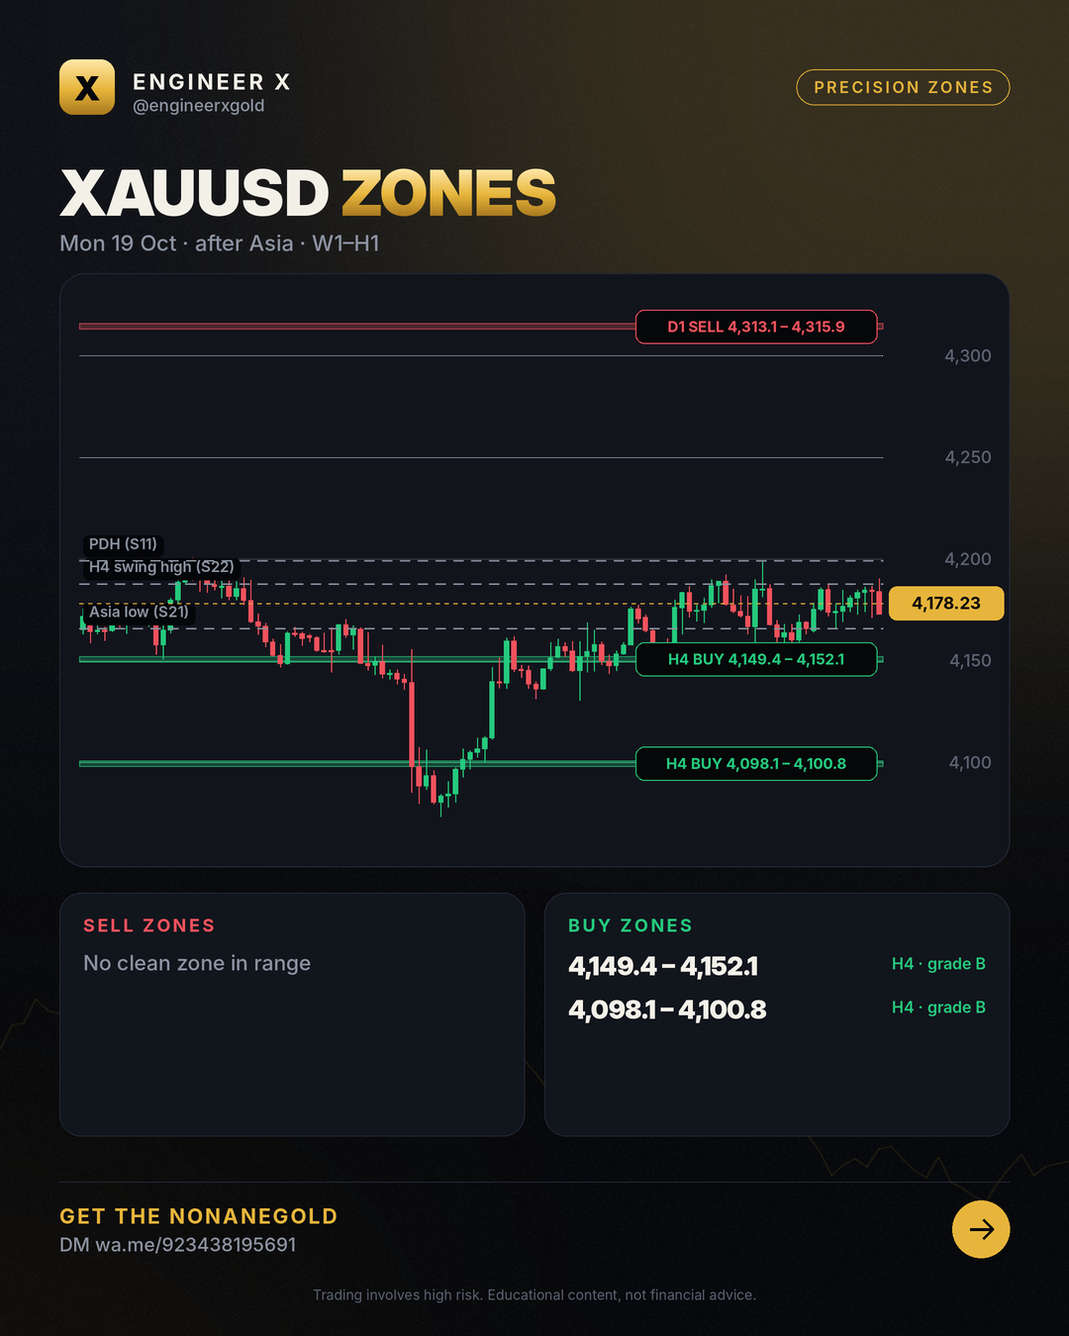
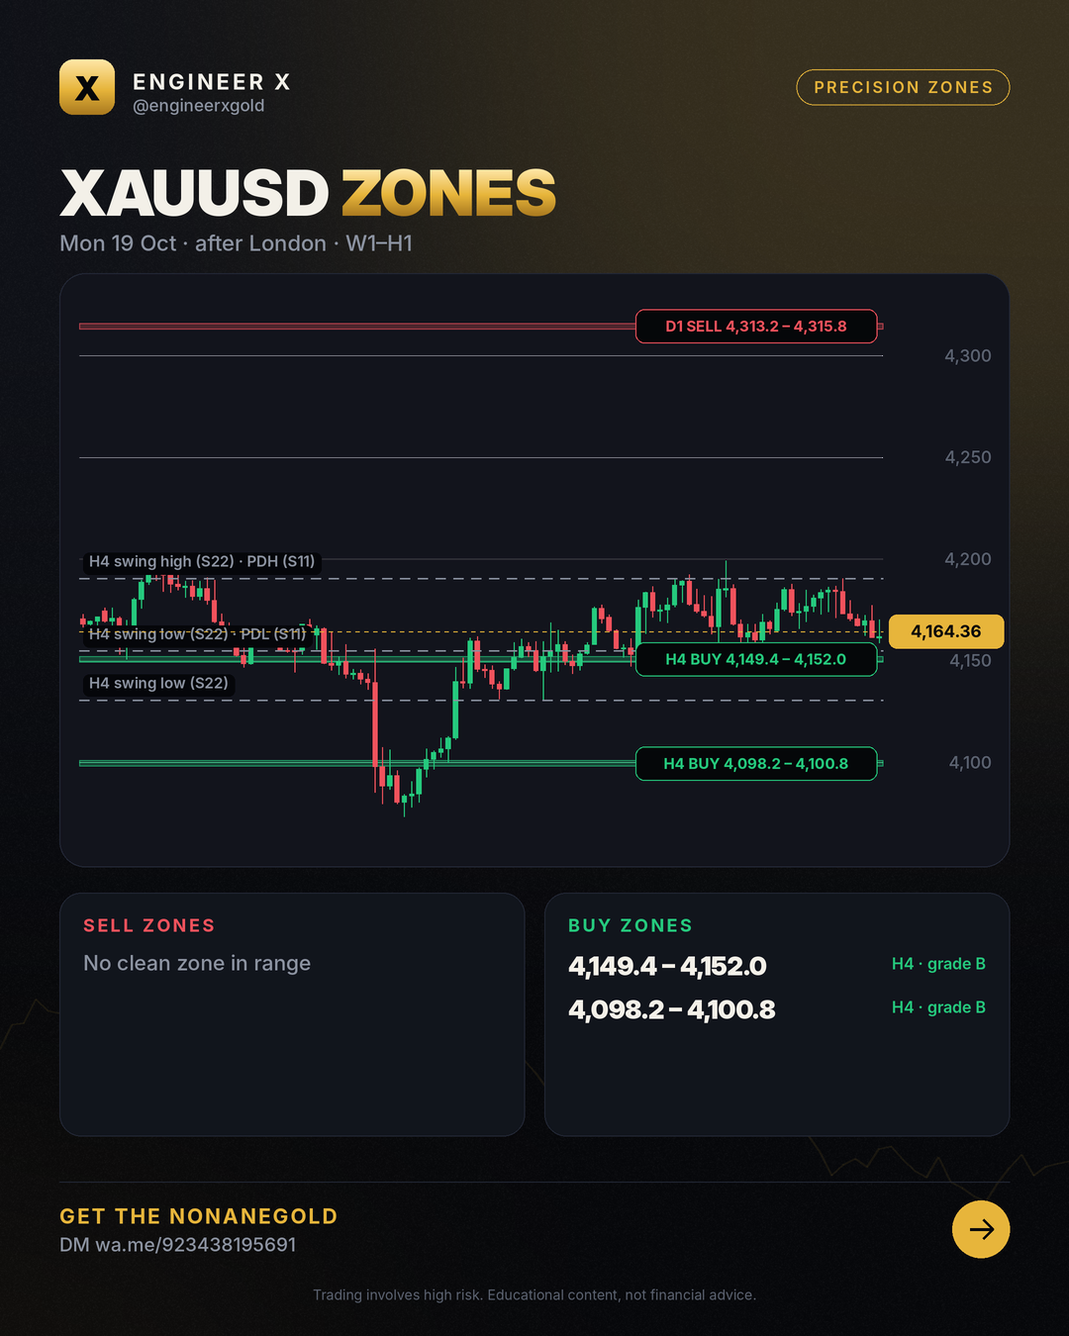
zones 2026-10-19 Mon 19 Oct · after London · W1–H1

diff --git a/zones/2026-10-19/index.html b/zones/2026-10-19/index.html
@@ -4,7 +4,7 @@
 <meta charset="utf-8">
 <meta name="viewport" content="width=device-width,initial-scale=1">
 <title>Xauusd Price – 19 Oct 2026 (W1–H1)</title>
-<meta name="description" content="XAUUSD buy and sell zones for 2026-10-19: tested W1, D1, H4 and H1 zones with invalidation levels, updated after the Asian, London and New York sessions. Price 4,178.23.">
+<meta name="description" content="XAUUSD buy and sell zones for 2026-10-19: tested W1, D1, H4 and H1 zones with invalidation levels, updated after the Asian, London and New York sessions. Price 4,164.36.">
 <meta name="robots" content="index,follow,max-image-preview:large,max-snippet:-1,max-video-preview:-1">
 <meta name="author" content="Engr. M Ahmad Mehmood">
 <link rel="canonical" href="https://engineerxgold.github.io/zones/2026-10-19/">
@@ -12,7 +12,7 @@
 <link rel="apple-touch-icon" href="../../img/logo.png">
 <meta property="og:site_name" content="Engineer X">
 <meta property="og:title" content="Xauusd Price – 19 Oct 2026 (W1–H1)">
-<meta property="og:description" content="XAUUSD buy and sell zones for 2026-10-19: tested W1, D1, H4 and H1 zones with invalidation levels, updated after the Asian, London and New York sessions. Price 4,178.23.">
+<meta property="og:description" content="XAUUSD buy and sell zones for 2026-10-19: tested W1, D1, H4 and H1 zones with invalidation levels, updated after the Asian, London and New York sessions. Price 4,164.36.">
 <meta property="og:type" content="article">
 <meta property="og:url" content="https://engineerxgold.github.io/zones/2026-10-19/">
 <meta property="og:image" content="https://engineerxgold.github.io/zones/img/2026-10-19.png">
@@ -22,7 +22,7 @@
 <meta property="og:locale" content="en_US">
 <meta name="twitter:card" content="summary_large_image">
 <meta name="twitter:title" content="Xauusd Price – 19 Oct 2026 (W1–H1)">
-<meta name="twitter:description" content="XAUUSD buy and sell zones for 2026-10-19: tested W1, D1, H4 and H1 zones with invalidation levels, updated after the Asian, London and New York sessions. Price 4,178.23.">
+<meta name="twitter:description" content="XAUUSD buy and sell zones for 2026-10-19: tested W1, D1, H4 and H1 zones with invalidation levels, updated after the Asian, London and New York sessions. Price 4,164.36.">
 <meta name="twitter:image" content="https://engineerxgold.github.io/zones/img/2026-10-19.png">
 <meta name="twitter:image:alt" content="Xauusd Price – 19 Oct 2026 (W1–H1)">
 
@@ -32,7 +32,7 @@
 <link rel="preconnect" href="https://fonts.googleapis.com">
 <link rel="preconnect" href="https://fonts.gstatic.com" crossorigin>
 <link href="https://fonts.googleapis.com/css2?family=Inter:wght@400;500;600;800;900&display=swap" rel="stylesheet">
-<script type="application/ld+json">{"@context": "https://schema.org", "@type": "Organization", "@id": "https://engineerxgold.github.io/#organization", "name": "Engineer X", "url": "https://engineerxgold.github.io/", "logo": {"@type": "ImageObject", "url": "https://engineerxgold.github.io/img/logo.png", "width": 512, "height": 512}, "sameAs": ["https://t.me/engineerxgold"]}</script><script type="application/ld+json">{"@context": "https://schema.org", "@type": "Article", "headline": "Xauusd Price – 19 Oct 2026 (W1–H1)", "datePublished": "2026-10-19T08:00:00+05:00", "dateModified": "2026-10-19T13:22:41+05:00", "author": {"@type": "Person", "@id": "https://engineerxgold.github.io/about/#author", "name": "Engr. M Ahmad Mehmood", "url": "https://engineerxgold.github.io/about/", "jobTitle": "MQL5 Expert Advisor developer and gold market analyst", "worksFor": {"@id": "https://engineerxgold.github.io/#organization"}}, "publisher": {"@id": "https://engineerxgold.github.io/#organization"}, "image": "https://engineerxgold.github.io/zones/img/2026-10-19.png", "mainEntityOfPage": "https://engineerxgold.github.io/zones/2026-10-19/"}</script>
+<script type="application/ld+json">{"@context": "https://schema.org", "@type": "Organization", "@id": "https://engineerxgold.github.io/#organization", "name": "Engineer X", "url": "https://engineerxgold.github.io/", "logo": {"@type": "ImageObject", "url": "https://engineerxgold.github.io/img/logo.png", "width": 512, "height": 512}, "sameAs": ["https://t.me/engineerxgold"]}</script><script type="application/ld+json">{"@context": "https://schema.org", "@type": "Article", "headline": "Xauusd Price – 19 Oct 2026 (W1–H1)", "datePublished": "2026-10-19T08:00:00+05:00", "dateModified": "2026-10-19T18:16:37+05:00", "author": {"@type": "Person", "@id": "https://engineerxgold.github.io/about/#author", "name": "Engr. M Ahmad Mehmood", "url": "https://engineerxgold.github.io/about/", "jobTitle": "MQL5 Expert Advisor developer and gold market analyst", "worksFor": {"@id": "https://engineerxgold.github.io/#organization"}}, "publisher": {"@id": "https://engineerxgold.github.io/#organization"}, "image": "https://engineerxgold.github.io/zones/img/2026-10-19.png", "mainEntityOfPage": "https://engineerxgold.github.io/zones/2026-10-19/"}</script>
 
 <style>
 :root{--gold:#E7B53B;--gold-hi:#FFE7A8;--bg:#07080B;--bg2:#0E1016;--panel:#12151D;--line:#232836;--green:#25C97D;--red:#F0525C;--text:#F3F0E8;--muted:#8C93A1}
@@ -101,7 +101,7 @@ footer .fl a{color:var(--muted);margin-right:16px}
 <div class="wrap">
 <nav><a class="logo" href="../../"><b>X</b>Engineer X</a>
 <div class="links"><a href="../../zones/">Daily Zones</a><a href="../../blog/">Learn</a><a href="../../ea/">Gold EA</a><a href="../../about/">About</a><a class="cta" href="https://wa.me/923438195691">Get the EA</a></div></nav>
-<article><p class="crumbs"><a href="../../">Home</a> › <a href="../">Zones</a> › 2026-10-19</p><h1>Xauusd Price – 19 Oct 2026 (W1–H1)</h1><p class="byline">Mon 19 Oct · after Asia · W1–H1 · by Engr. M Ahmad Mehmood</p><img src="../img/2026-10-19.png" alt="XAUUSD zone map 2026-10-19" width="1080" height="1350" loading="eager"><h2>Zones</h2><div style="overflow-x:auto"><table style="width:100%;border-collapse:collapse;font-size:15px"><tr><th align=left>Zone</th><th align=left>Price band</th><th>Grade</th><th align=left>Invalid</th><th align=left>Why</th></tr><tr><td>D1 sell</td><td><b>4,313.06 – 4,315.85</b></td><td>A</td><td>above 4,328.39</td><td>OTE 0.705 of the D1 leg 4399.65 → 4110.86 (S35; 0.62–0.79 = 4289.91–4339.00)</td></tr><tr><td>H4 buy</td><td><b>4,149.35 – 4,152.13</b></td><td>B</td><td>below 4,136.81</td><td>OTE 0.705 of the H4 leg 4130.52 → 4199.06 (S35; 0.62–0.79 = 4156.57–4144.91)</td></tr><tr><td>H4 buy</td><td><b>4,098.06 – 4,100.84</b></td><td>B</td><td>below 4,085.52</td><td>OTE 0.705 of the H4 leg 4073.37 → 4161.78 (S35; 0.62–0.79 = 4106.97–4091.94)</td></tr></table></div><h2>How to read this map</h2><p>Bands are where price is expected to react; they are not entries. Trading beyond the invalidation price ends the zone; each zone counts once (first touch). Highs and lows listed as liquidity are targets: on 10 years of gold price ran through them more often than through random levels.</p><div class="ctabox"><h3>🤖 Trade the zones with the NonaneGold</h3><p>Free signals group access + setup help Message us and we will help you set it up.</p><div class="btns"><a class="btn gold" href="https://wa.me/923438195691">Get the EA on Telegram</a><a class="btn ghost" href="../../ea/">About the EA</a></div></div></article>
+<article><p class="crumbs"><a href="../../">Home</a> › <a href="../">Zones</a> › 2026-10-19</p><h1>Xauusd Price – 19 Oct 2026 (W1–H1)</h1><p class="byline">Mon 19 Oct · after London · W1–H1 · by Engr. M Ahmad Mehmood</p><img src="../img/2026-10-19.png" alt="XAUUSD zone map 2026-10-19" width="1080" height="1350" loading="eager"><h2>Zones</h2><div style="overflow-x:auto"><table style="width:100%;border-collapse:collapse;font-size:15px"><tr><th align=left>Zone</th><th align=left>Price band</th><th>Grade</th><th align=left>Invalid</th><th align=left>Why</th></tr><tr><td>D1 sell</td><td><b>4,313.16 – 4,315.75</b></td><td>A</td><td>above 4,327.42</td><td>OTE 0.705 of the D1 leg 4399.65 → 4110.86 (S35; 0.62–0.79 = 4289.91–4339.00)</td></tr><tr><td>H4 buy</td><td><b>4,149.44 – 4,152.04</b></td><td>B</td><td>below 4,137.78</td><td>OTE 0.705 of the H4 leg 4130.52 → 4199.06 (S35; 0.62–0.79 = 4156.57–4144.91)</td></tr><tr><td>H4 buy</td><td><b>4,098.16 – 4,100.75</b></td><td>B</td><td>below 4,086.49</td><td>OTE 0.705 of the H4 leg 4073.37 → 4161.78 (S35; 0.62–0.79 = 4106.97–4091.94)</td></tr></table></div><h2>How to read this map</h2><p>Bands are where price is expected to react; they are not entries. Trading beyond the invalidation price ends the zone; each zone counts once (first touch). Highs and lows listed as liquidity are targets: on 10 years of gold price ran through them more often than through random levels.</p><div class="ctabox"><h3>🤖 Trade the zones with the NonaneGold</h3><p>Free signals group access + setup help Message us and we will help you set it up.</p><div class="btns"><a class="btn gold" href="https://wa.me/923438195691">Get the EA on Telegram</a><a class="btn ghost" href="../../ea/">About the EA</a></div></div></article>
 <footer>
 <div class="warn"><b>Risk warning:</b> Trading gold, forex and CFDs carries a high risk of losing money and is not suitable for everyone. Past results do not guarantee future results. Everything on this site is educational and not financial advice. We are an introducing partner of our broker and may earn a commission on accounts opened through our link.</div>
 <p class="fl" style="margin-top:18px"><a href="../../about/">About &amp; methodology</a><a href="../../privacy.html">Privacy</a><a href="../../terms.html">Terms &amp; risk disclosure</a><a href="../../feed.xml">RSS</a><a href="https://t.me/engineerxgold">Telegram</a></p>

diff --git a/zones/index.html b/zones/index.html
@@ -4,7 +4,7 @@
 <meta charset="utf-8">
 <meta name="viewport" content="width=device-width,initial-scale=1">
 <title>XAUUSD Zones Today – Buy &amp; Sell Zones (H4, H1) | Engineer X</title>
-<meta name="description" content="XAUUSD buy and sell zones for 2026-10-19: tested W1, D1, H4 and H1 zones with invalidation levels, updated after the Asian, London and New York sessions. Price 4,178.23.">
+<meta name="description" content="XAUUSD buy and sell zones for 2026-10-19: tested W1, D1, H4 and H1 zones with invalidation levels, updated after the Asian, London and New York sessions. Price 4,164.36.">
 <meta name="robots" content="index,follow,max-image-preview:large,max-snippet:-1,max-video-preview:-1">
 <meta name="author" content="Engr. M Ahmad Mehmood">
 <link rel="canonical" href="https://engineerxgold.github.io/zones/">
@@ -12,7 +12,7 @@
 <link rel="apple-touch-icon" href="../img/logo.png">
 <meta property="og:site_name" content="Engineer X">
 <meta property="og:title" content="XAUUSD Zones Today – Buy &amp; Sell Zones (H4, H1) | Engineer X">
-<meta property="og:description" content="XAUUSD buy and sell zones for 2026-10-19: tested W1, D1, H4 and H1 zones with invalidation levels, updated after the Asian, London and New York sessions. Price 4,178.23.">
+<meta property="og:description" content="XAUUSD buy and sell zones for 2026-10-19: tested W1, D1, H4 and H1 zones with invalidation levels, updated after the Asian, London and New York sessions. Price 4,164.36.">
 <meta property="og:type" content="website">
 <meta property="og:url" content="https://engineerxgold.github.io/zones/">
 <meta property="og:image" content="https://engineerxgold.github.io/zones/img/2026-10-19.png">
@@ -22,7 +22,7 @@
 <meta property="og:locale" content="en_US">
 <meta name="twitter:card" content="summary_large_image">
 <meta name="twitter:title" content="XAUUSD Zones Today – Buy &amp; Sell Zones (H4, H1) | Engineer X">
-<meta name="twitter:description" content="XAUUSD buy and sell zones for 2026-10-19: tested W1, D1, H4 and H1 zones with invalidation levels, updated after the Asian, London and New York sessions. Price 4,178.23.">
+<meta name="twitter:description" content="XAUUSD buy and sell zones for 2026-10-19: tested W1, D1, H4 and H1 zones with invalidation levels, updated after the Asian, London and New York sessions. Price 4,164.36.">
 <meta name="twitter:image" content="https://engineerxgold.github.io/zones/img/2026-10-19.png">
 <meta name="twitter:image:alt" content="XAUUSD Zones Today – Buy &amp; Sell Zones (H4, H1) | Engineer X">
 
@@ -101,7 +101,7 @@ footer .fl a{color:var(--muted);margin-right:16px}
 <div class="wrap">
 <nav><a class="logo" href="../"><b>X</b>Engineer X</a>
 <div class="links"><a href="../zones/">Daily Zones</a><a href="../blog/">Learn</a><a href="../ea/">Gold EA</a><a href="../about/">About</a><a class="cta" href="https://wa.me/923438195691">Get the EA</a></div></nav>
-<section class="hero"><span class="chip">Updated Mon 19 Oct · after Asia · W1–H1</span><h1>XAUUSD <span class="gold">precision zones</span></h1><p>XAUUSD buy and sell zones for 2026-10-19: tested W1, D1, H4 and H1 zones with invalidation levels, updated after the Asian, London and New York sessions. Price 4,178.23.</p></section><img src="img/2026-10-19.png" alt="Latest XAUUSD zone map" width="1080" height="1350"><section><h2>Current zones</h2><div style="overflow-x:auto"><table style="width:100%;border-collapse:collapse;font-size:15px"><tr><th align=left>Zone</th><th align=left>Price band</th><th>Grade</th><th align=left>Invalid</th><th align=left>Why</th></tr><tr><td>D1 sell</td><td><b>4,313.06 – 4,315.85</b></td><td>A</td><td>above 4,328.39</td><td>OTE 0.705 of the D1 leg 4399.65 → 4110.86 (S35; 0.62–0.79 = 4289.91–4339.00)</td></tr><tr><td>H4 buy</td><td><b>4,149.35 – 4,152.13</b></td><td>B</td><td>below 4,136.81</td><td>OTE 0.705 of the H4 leg 4130.52 → 4199.06 (S35; 0.62–0.79 = 4156.57–4144.91)</td></tr><tr><td>H4 buy</td><td><b>4,098.06 – 4,100.84</b></td><td>B</td><td>below 4,085.52</td><td>OTE 0.705 of the H4 leg 4073.37 → 4161.78 (S35; 0.62–0.79 = 4106.97–4091.94)</td></tr></table></div></section><section><h2>Honest scorecard</h2><div class="grid"><div class="card"><div class="n">117</div><p>zones published (30 days)</p></div><div class="card"><div class="n">43</div><p>held (moved 1 hourly ATR away)</p></div><div class="card"><div class="n">4</div><p>broke (traded beyond the invalidation)</p></div><div class="card"><div class="n">91%</div><p>hold rate of decided zones</p></div></div></section><div class="ctabox"><h3>🤖 Trade the zones with the NonaneGold</h3><p>Free signals group access + setup help Message us and we will help you set it up.</p><div class="btns"><a class="btn gold" href="https://wa.me/923438195691">Get the EA on Telegram</a><a class="btn ghost" href="../ea/">About the EA</a></div></div><section><h2>Archive</h2><div class="grid posts"><a class="card" href="2026-10-19/"><span class="date">2026-10-19</span><h3>XAUUSD zones 2026-10-19</h3></a><a class="card" href="2026-10-16/"><span class="date">2026-10-16</span><h3>XAUUSD zones 2026-10-16</h3></a><a class="card" href="2026-10-15/"><span class="date">2026-10-15</span><h3>XAUUSD zones 2026-10-15</h3></a><a class="card" href="2026-10-14/"><span class="date">2026-10-14</span><h3>XAUUSD zones 2026-10-14</h3></a><a class="card" href="2026-10-13/"><span class="date">2026-10-13</span><h3>XAUUSD zones 2026-10-13</h3></a></div></section>
+<section class="hero"><span class="chip">Updated Mon 19 Oct · after London · W1–H1</span><h1>XAUUSD <span class="gold">precision zones</span></h1><p>XAUUSD buy and sell zones for 2026-10-19: tested W1, D1, H4 and H1 zones with invalidation levels, updated after the Asian, London and New York sessions. Price 4,164.36.</p></section><img src="img/2026-10-19.png" alt="Latest XAUUSD zone map" width="1080" height="1350"><section><h2>Current zones</h2><div style="overflow-x:auto"><table style="width:100%;border-collapse:collapse;font-size:15px"><tr><th align=left>Zone</th><th align=left>Price band</th><th>Grade</th><th align=left>Invalid</th><th align=left>Why</th></tr><tr><td>D1 sell</td><td><b>4,313.16 – 4,315.75</b></td><td>A</td><td>above 4,327.42</td><td>OTE 0.705 of the D1 leg 4399.65 → 4110.86 (S35; 0.62–0.79 = 4289.91–4339.00)</td></tr><tr><td>H4 buy</td><td><b>4,149.44 – 4,152.04</b></td><td>B</td><td>below 4,137.78</td><td>OTE 0.705 of the H4 leg 4130.52 → 4199.06 (S35; 0.62–0.79 = 4156.57–4144.91)</td></tr><tr><td>H4 buy</td><td><b>4,098.16 – 4,100.75</b></td><td>B</td><td>below 4,086.49</td><td>OTE 0.705 of the H4 leg 4073.37 → 4161.78 (S35; 0.62–0.79 = 4106.97–4091.94)</td></tr></table></div></section><section><h2>Honest scorecard</h2><div class="grid"><div class="card"><div class="n">120</div><p>zones published (30 days)</p></div><div class="card"><div class="n">43</div><p>held (moved 1 hourly ATR away)</p></div><div class="card"><div class="n">4</div><p>broke (traded beyond the invalidation)</p></div><div class="card"><div class="n">91%</div><p>hold rate of decided zones</p></div></div></section><div class="ctabox"><h3>🤖 Trade the zones with the NonaneGold</h3><p>Free signals group access + setup help Message us and we will help you set it up.</p><div class="btns"><a class="btn gold" href="https://wa.me/923438195691">Get the EA on Telegram</a><a class="btn ghost" href="../ea/">About the EA</a></div></div><section><h2>Archive</h2><div class="grid posts"><a class="card" href="2026-10-19/"><span class="date">2026-10-19</span><h3>XAUUSD zones 2026-10-19</h3></a><a class="card" href="2026-10-16/"><span class="date">2026-10-16</span><h3>XAUUSD zones 2026-10-16</h3></a><a class="card" href="2026-10-15/"><span class="date">2026-10-15</span><h3>XAUUSD zones 2026-10-15</h3></a><a class="card" href="2026-10-14/"><span class="date">2026-10-14</span><h3>XAUUSD zones 2026-10-14</h3></a><a class="card" href="2026-10-13/"><span class="date">2026-10-13</span><h3>XAUUSD zones 2026-10-13</h3></a></div></section>
 <footer>
 <div class="warn"><b>Risk warning:</b> Trading gold, forex and CFDs carries a high risk of losing money and is not suitable for everyone. Past results do not guarantee future results. Everything on this site is educational and not financial advice. We are an introducing partner of our broker and may earn a commission on accounts opened through our link.</div>
 <p class="fl" style="margin-top:18px"><a href="../about/">About &amp; methodology</a><a href="../privacy.html">Privacy</a><a href="../terms.html">Terms &amp; risk disclosure</a><a href="../feed.xml">RSS</a><a href="https://t.me/engineerxgold">Telegram</a></p>

diff --git a/index.html b/index.html
@@ -101,7 +101,7 @@ footer .fl a{color:var(--muted);margin-right:16px}
 <div class="wrap">
 <nav><a class="logo" href="./"><b>X</b>Engineer X</a>
 <div class="links"><a href="./zones/">Daily Zones</a><a href="./blog/">Learn</a><a href="./ea/">Gold EA</a><a href="./about/">About</a><a class="cta" href="https://wa.me/923438195691">Get the EA</a></div></nav>
-<section class="hero"><span class="chip">XAUUSD · W1–H1 · every session</span><h1>Gold <span class="gold">precision zones</span>, updated after every session</h1><p>Tested buy and sell zones with clear invalidation, a scorecard of every result, and the NonaneGold for traders who want it automated.</p><div class="btns"><a class="btn gold" href="zones/">See today's zones</a><a class="btn ghost" href="https://wa.me/923438195691">Get the EA</a></div></section><section><h2>Latest map Mon 19 Oct · after Asia · W1–H1</h2><img src="zones/img/2026-10-19.png" alt="Latest XAUUSD zones" width="1080" height="1350"></section><div class="ctabox"><h3>🤖 Trade the zones with the NonaneGold</h3><p>Free signals group access + setup help Message us and we will help you set it up.</p><div class="btns"><a class="btn gold" href="https://wa.me/923438195691">Get the EA on Telegram</a><a class="btn ghost" href="ea/">About the EA</a></div></div><section><h2>Learn</h2><div class="grid posts"><a class="card" href="blog/gold-trading-reading-h4-trend-liquidity-zones/"><span class="date">2026-10-19</span><h3>Gold Trading: Reading H4 Trend &amp; Liquidity Zones</h3></a><a class="card" href="blog/gold-support-resistance-live-technical-map-zones/"><span class="date">2026-10-18</span><h3>Gold Support Resistance: Live Technical Map &amp; Zones</h3></a><a class="card" href="blog/gold-supply-and-demand-zones-live-trading-map-guide/"><span class="date">2026-10-17</span><h3>Gold Supply and Demand Zones: Live Trading Map &amp; Guide</h3></a><a class="card" href="blog/gold-trading-h4-trend-and-live-market-zones-map/"><span class="date">2026-10-16</span><h3>Gold Trading: H4 Trend and Live Market Zones Map</h3></a><a class="card" href="blog/gold-price-today-navigating-h4-downtrend-key-zones/"><span class="date">2026-10-15</span><h3>Gold Price Today: Navigating H4 Downtrend &amp; Key Zones</h3></a><a class="card" href="blog/gold-supply-and-demand-zones-h4-h1-trading-map/"><span class="date">2026-10-14</span><h3>Gold Supply and Demand Zones: H4 &amp; H1 Trading Map</h3></a></div></section><section><h2>FAQ</h2><details><summary>What is a precision zone?</summary><p>A point of interest from a trading book (OTE 0.705, balanced price range, weekly close level, daily order block) that held better than random levels on 10 years of gold. Each zone has an invalidation price.</p></details><details><summary>How often are the zones updated?</summary><p>A daily plan at the Asian open, then after the Asian, London and New York sessions.</p></details><details><summary>Are these trade signals?</summary><p>No. Zones are areas to watch. Wait for your own confirmation and manage risk.</p></details><details><summary>How do I get the Gold EA?</summary><p>Message us on Telegram or WhatsApp; we answer and help with the setup.</p></details></section>
+<section class="hero"><span class="chip">XAUUSD · W1–H1 · every session</span><h1>Gold <span class="gold">precision zones</span>, updated after every session</h1><p>Tested buy and sell zones with clear invalidation, a scorecard of every result, and the NonaneGold for traders who want it automated.</p><div class="btns"><a class="btn gold" href="zones/">See today's zones</a><a class="btn ghost" href="https://wa.me/923438195691">Get the EA</a></div></section><section><h2>Latest map Mon 19 Oct · after London · W1–H1</h2><img src="zones/img/2026-10-19.png" alt="Latest XAUUSD zones" width="1080" height="1350"></section><div class="ctabox"><h3>🤖 Trade the zones with the NonaneGold</h3><p>Free signals group access + setup help Message us and we will help you set it up.</p><div class="btns"><a class="btn gold" href="https://wa.me/923438195691">Get the EA on Telegram</a><a class="btn ghost" href="ea/">About the EA</a></div></div><section><h2>Learn</h2><div class="grid posts"><a class="card" href="blog/gold-trading-reading-h4-trend-liquidity-zones/"><span class="date">2026-10-19</span><h3>Gold Trading: Reading H4 Trend &amp; Liquidity Zones</h3></a><a class="card" href="blog/gold-support-resistance-live-technical-map-zones/"><span class="date">2026-10-18</span><h3>Gold Support Resistance: Live Technical Map &amp; Zones</h3></a><a class="card" href="blog/gold-supply-and-demand-zones-live-trading-map-guide/"><span class="date">2026-10-17</span><h3>Gold Supply and Demand Zones: Live Trading Map &amp; Guide</h3></a><a class="card" href="blog/gold-trading-h4-trend-and-live-market-zones-map/"><span class="date">2026-10-16</span><h3>Gold Trading: H4 Trend and Live Market Zones Map</h3></a><a class="card" href="blog/gold-price-today-navigating-h4-downtrend-key-zones/"><span class="date">2026-10-15</span><h3>Gold Price Today: Navigating H4 Downtrend &amp; Key Zones</h3></a><a class="card" href="blog/gold-supply-and-demand-zones-h4-h1-trading-map/"><span class="date">2026-10-14</span><h3>Gold Supply and Demand Zones: H4 &amp; H1 Trading Map</h3></a></div></section><section><h2>FAQ</h2><details><summary>What is a precision zone?</summary><p>A point of interest from a trading book (OTE 0.705, balanced price range, weekly close level, daily order block) that held better than random levels on 10 years of gold. Each zone has an invalidation price.</p></details><details><summary>How often are the zones updated?</summary><p>A daily plan at the Asian open, then after the Asian, London and New York sessions.</p></details><details><summary>Are these trade signals?</summary><p>No. Zones are areas to watch. Wait for your own confirmation and manage risk.</p></details><details><summary>How do I get the Gold EA?</summary><p>Message us on Telegram or WhatsApp; we answer and help with the setup.</p></details></section>
 <footer>
 <div class="warn"><b>Risk warning:</b> Trading gold, forex and CFDs carries a high risk of losing money and is not suitable for everyone. Past results do not guarantee future results. Everything on this site is educational and not financial advice. We are an introducing partner of our broker and may earn a commission on accounts opened through our link.</div>
 <p class="fl" style="margin-top:18px"><a href="./about/">About &amp; methodology</a><a href="./privacy.html">Privacy</a><a href="./terms.html">Terms &amp; risk disclosure</a><a href="./feed.xml">RSS</a><a href="https://t.me/engineerxgold">Telegram</a></p>
